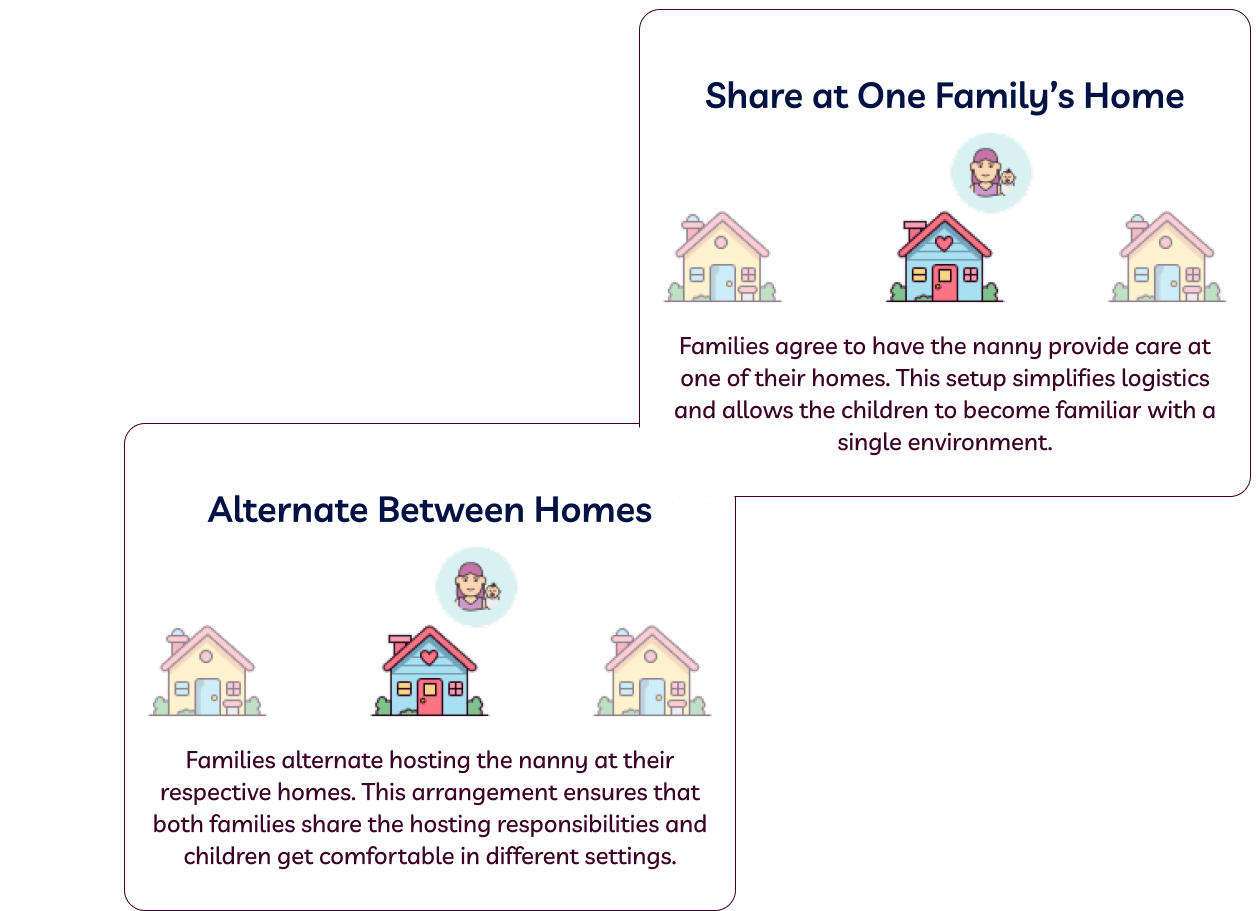
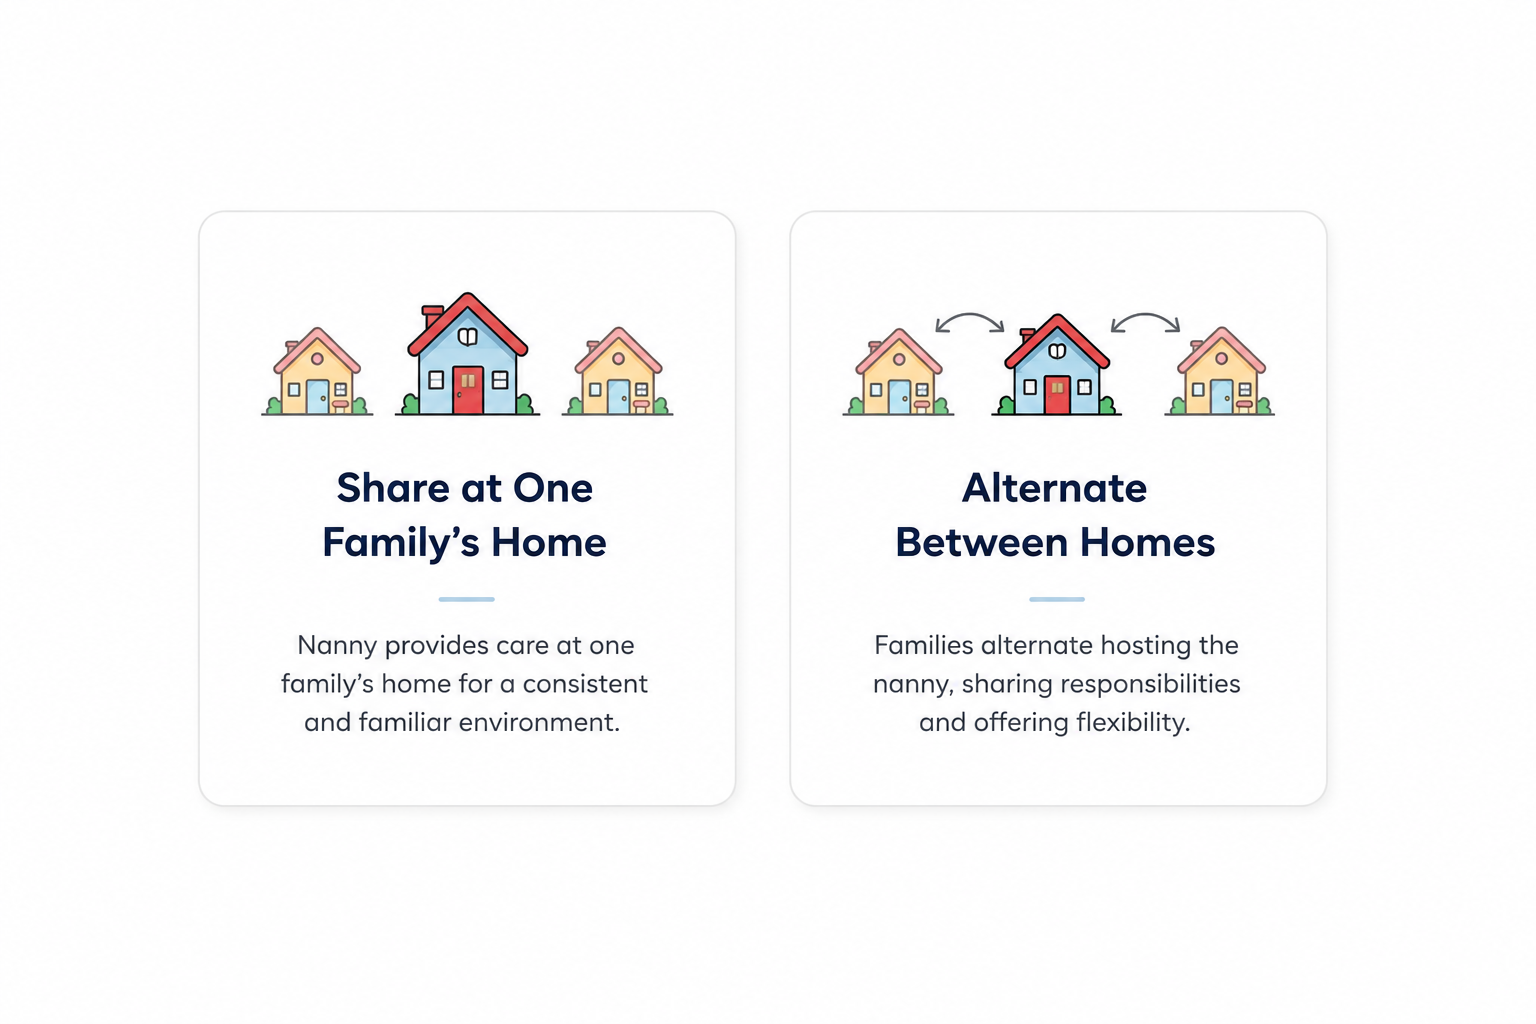
landing page fixes

diff --git a/frontend/src/NewComponents/Caregivers/Hero.jsx b/frontend/src/NewComponents/Caregivers/Hero.jsx
@@ -1,4 +1,4 @@
-import React, { useState, useEffect } from "react";
+import React, { useState, useEffect, useRef } from "react";
 import { NavLink } from "react-router-dom";
 import Header from "../Header";
 import { Spin, Input } from "antd";
@@ -15,6 +15,25 @@ function Hero() {
   const [isLoading, setIsLoading] = useState(false);
   const [showResults, setShowResults] = useState(false);
   const navigate = useNavigate();
+
+  const [isGlowing, setIsGlowing] = useState(false);
+  const buttonRef = useRef(null);
+
+
+  useEffect(() => {
+    const observer = new IntersectionObserver(
+      ([entry]) => {
+        if (entry.isIntersecting) {
+          setIsGlowing(true);
+          setTimeout(() => setIsGlowing(false), 1000);
+        }
+      },
+      { threshold: 0.5 },
+    );
+
+    if (buttonRef.current) observer.observe(buttonRef.current);
+    return () => observer.disconnect();
+  }, []); // Remove hasGlowed from deps
 
   useEffect(() => {
     if (showResults) {
@@ -103,11 +122,23 @@ function Hero() {
 
   return (
     <div className="Livvic container min-h-screen px-4 sm:px-6 lg:px-8">
+
+      {/* Inject keyframes globally */}
+      <style>{`
+        @keyframes buttonGlow {
+          0%   { box-shadow: 0 0 0px rgba(255, 173, 225, 0); }
+          40%  { box-shadow: 0 0 18px 6px rgba(140, 172, 246, 0.9); }
+          100% { box-shadow: 0 0 0px rgba(255, 173, 225, 0); }
+        }
+        .glow-once {
+          animation: buttonGlow 1s ease-out forwards;
+        }
+      `}</style>
       <Header />
       <div className="mt-20 sm:mt-32">
-        <em className="text-sm Livvic-Medium tracking-widest uppercase text-[#ffffffc9]">
+        {/* <em className="text-sm Livvic-Medium tracking-widest uppercase text-[#ffffffc9]">
           No commitment · Free to join
-        </em>
+        </em> */}
 
         <h1 className="Livvic-Bold text-3xl sm:text-4xl md:text-5xl lg:text-6xl text-white leading-tight sm:leading-[50px] md:leading-[60px] lg:leading-[80px] mt-3">
           Earn More as a <br /> Nanny with Nanny Share
@@ -119,14 +150,26 @@ function Hero() {
           find the right match.
         </p>
 
-        <div className="flex flex-col gap-3 mt-7 max-w-md">
+        <div
+          ref={buttonRef}
+          className={isGlowing ? "glow-once rounded-full mt-7 w-fit" : "mt-7 w-fit"}
+        >
+          <Button
+            btnText={isLoading ? <Spin size="small" /> : "Find a nanny share"}
+            className="bg-[#AEC4FF] w-full sm:w-auto px-6 py-3 sm:py-4 flex items-center justify-center"
+            action={() => navigate("/caregiver/nannyshare")}
+            disabled={isLoading}
+          />
+        </div>
+
+        {/* <div className="flex flex-col gap-3 mt-7 max-w-md">
           <Button
             btnText="Get Started"
             className="bg-[#AEC4FF] w-fit"
             action={() => navigate("/caregiver/nannyshare")}
             isLoading={isLoading}
             loadingBtnText="Searching..."
-          />
+          /> */}
           {/* <Button
             btnText="I'm looking for a nanny share position →"
             className="bg-[#AEC4FF] w-full px-6 py-3 sm:py-4"
@@ -134,7 +177,7 @@ function Hero() {
             isLoading={isLoading}
             loadingBtnText="Searching..."
           /> */}
-        </div>
+        {/* </div> */}
         <p className="Livvic-Bold text-white text-base sm:text-lg md:text-xl mt-4 max-w-2xl">
           Nanny share caregivers typically earn 20–30% more than single-family jobs.
         </p>

diff --git a/frontend/src/Components/JoinNow/joinNow.jsx b/frontend/src/Components/JoinNow/joinNow.jsx
@@ -135,43 +135,35 @@ export default function JoinNow() {
           Tell us who you are
         </h1>
         <div className="mt-12 flex justify-center flex-wrap gap-6">
-          <div
-            className="onboarding-box max-w-xs cursor-pointer"
-            style={{
-              border: value === 1 && "2px solid #AEC4FF",
-            }}
-            onClick={() => onRadioChange(1)}
-          >
-            <Radio checked={value === 1}></Radio>
-            <h2 className="onboarding-subHead mt-4">
-              I'm a Parent
-              {/* <br /> a caregiver */}
-            </h2>
-            <div className="mt-2 flex gap-4">
-              <div>
+          <div className="flex gap-4 items-stretch">
+            {/* Card 1 - Parent */}
+            <div
+              className="onboarding-box cursor-pointer w-72 min-w-72 box-border flex flex-col"
+              style={{ border: value === 1 && "2px solid #AEC4FF"}}
+              onClick={() => onRadioChange(1)}
+            >
+              <Radio checked={value === 1} />
+              <img src="/join_now_parent.png" alt="" className="h-32 object-contain"/>
+              <h2 className="onboarding-subHead mt-4">I'm a Parent</h2>
+              <div className="mt-2">
                 <p className="onboarding-para">- Looking for a nanny or another family for a share.</p>
                 <p className="onboarding-para">- Already have a nanny and want to add a share.</p>
               </div>
-              <img src="/looking-for-caregiver.svg" alt="parent" />
             </div>
-          </div>
-          <div
-            className="onboarding-box max-w-xs cursor-pointer"
-            style={{
-              border: value === 2 && "2px solid #AEC4FF",
-            }}
-            onClick={() => onRadioChange(2)}
-          >
-            <Radio checked={value === 2}></Radio>
-            <h2 className="onboarding-subHead mt-4">
-              I'm a Caregiver
-            </h2>
-            <div className="mt-2 flex gap-4">
-                  <div>
+
+            {/* Card 2 - Caregiver */}
+            <div
+              className="onboarding-box cursor-pointer w-72 min-w-72 box-border flex flex-col"
+              style={{ border: value === 2 && "2px solid #AEC4FF" }}
+              onClick={() => onRadioChange(2)}
+            >
+              <Radio checked={value === 2} />
+              <img src="/join_now_caregiver.png" alt="" className="h-32 object-contain"/>
+              <h2 className="onboarding-subHead mt-4">I'm a Caregiver</h2>
+              <div className="mt-2">
                 <p className="onboarding-para">- Looking for a nanny share position.</p>
                 <p className="onboarding-para">- Already work with a family and want to add a share.</p>
               </div>
-              <img src="/looking-for-caregiver-job.svg" alt="caregiver" />
             </div>
           </div>
         </div>

diff --git a/frontend/src/NewComponents/NannyShare/Features.jsx b/frontend/src/NewComponents/NannyShare/Features.jsx
@@ -3,24 +3,24 @@ import React from "react";
 
 const services = [
   {
-    icon: <img src="/piggy_bank.png" alt="" aria-hidden="true" />,
+    icon: <img src="/piggy_bank.png" alt="" aria-hidden="true" className="max-h-full max-w-full object-contain object-center block"/>,
     title: "Lower Your Childcare Costs",
     description:
       "Share a nanny and split the cost — without sacrificing quality.",
   },
   {
-    icon: <img src="/care.png" alt="" aria-hidden="true" />,
+    icon: <img src="/care.png" alt="" aria-hidden="true" className="max-h-full max-w-full object-contain object-center block"/>,
     title: " More Personalized Care ",
     description:
       "Smaller group setting means your child gets more attention.",
   },
   {
-    icon: <img src="/play.png" alt="" aria-hidden="true" />,
+    icon: <img src="/play.png" alt="" aria-hidden="true" className="max-h-full max-w-full object-contain object-center block"/>,
     title: "Built-In Playmate",
     description: "Your child gets social interaction in a calm, home-based environment.",
   },
   {
-    icon: <img src="/calendar.png" alt="" aria-hidden="true" />,
+    icon: <img src="/calendar.png" alt="" aria-hidden="true" className="max-h-full max-w-full object-contain object-center block"/>,
     title: "Flexible for Your Schedule ",
     description:
       "Coordinate care in a way that works for both families.",
@@ -31,10 +31,8 @@ function ServicesCard({ title, description, icon }) {
   return (
     <div className="rounded-2xl pl-4 sm:pl-6 pr-2 py-8 sm:py-10 bg-white">
       {/* Use flex end to pin images to the bottom baseline */}
-      <div className="h-[80px] sm:h-[90px] lg:h-[100px] flex items-start justify-center">
-        <div className="h-[60px] w-[60px] sm:h-[70px] sm:w-[70px] lg:h-[80px] lg:w-[80px] [&_img]:w-full [&_img]:h-full [&_img]:object-contain">
+      <div className="w-full h-32 sm:h-48 flex items-center justify-center p-4 mb-4 flex-shrink-0">
           {icon}
-        </div>
       </div>
 
       <div className="mt-3">

diff --git a/frontend/src/NewComponents/Footer/Footer.jsx b/frontend/src/NewComponents/Footer/Footer.jsx
@@ -216,7 +216,7 @@ function Footer() {
                       Oakland
                     </NavLink>
                   </li>
-                  <li>
+                  {/* <li>
                     <NavLink
                       to="/nanny-share/fremont-ca"
                       onClick={() =>
@@ -237,7 +237,7 @@ function Footer() {
                     >
                       Santa Clara
                     </NavLink>
-                  </li>
+                  </li> */}
                 </ul>
               </div>
             </div>
